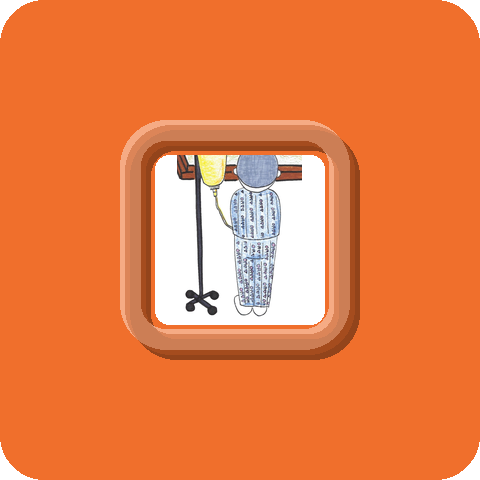
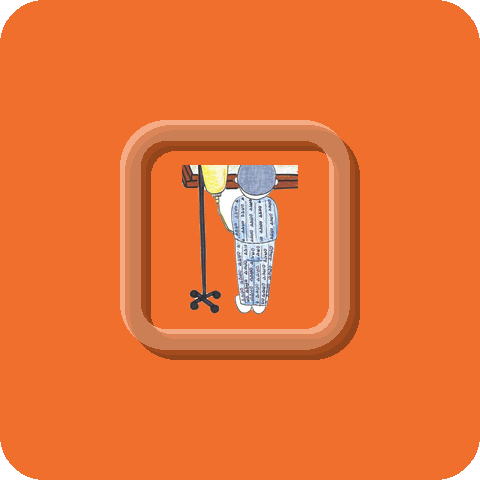
사계절 카드: 액자 안 흰 배경 제거
앞선 커밋은 그림을 흰 배경째 액자에 넣어 안쪽에 흰 판이 생겼다.
이제 흰 배경만 지우고 캐릭터가 계절색 위에 바로 놓이게 했다.

흰 배경 제거의 관건은 캐릭터 '안쪽'의 흰 부분(서퍼의 셔츠, 물보라,
이불)을 살리는 것이다. 밝기 문턱값으로 자르면 그것까지 뚫려 카드
색이 비친다. 그래서
- 바깥 테두리에서 연결된 흰 영역만 플러드 필로 지우고
- 문턱값을 246으로 높여 정말 흰 픽셀만 배경으로 보고
- 크레용 획 사이로 종이가 비쳐 생긴 구멍은 모폴로지 클로징으로 메웠다
겨울은 이불의 틈이 넓어 문턱값 248 · 클로징 13으로 따로 잡았다.

검증: 375px·1280px 모두 4장 로드, 이름/문구가 액자 구간(26~74%)을
침범하지 않음, 가로 스크롤 없음.

Changed region(s): [[0.3125, 0.3125, 0.6875, 0.6875]]

diff --git a/letter-2026-summer.html b/letter-2026-summer.html
@@ -7,7 +7,7 @@
   <meta name="description" content="여름은 다들 떠나는 계절입니다. 그 여름에 병실에 있는 사람에게 보내는 편지. 페루 마추픽추, 산정특례 30일 규칙과 연말정산 장애인 공제, 그리고 2025년에 한 일." />
   <link rel="alternate" hreflang="ko" href="https://nrhoon777.github.io/ddobom-website/letter-2026-summer.html" />
   <link rel="icon" type="image/png" href="assets/img/logo-square.png" />
-  <link rel="stylesheet" href="assets/css/style.css?v=20260811d" />
+  <link rel="stylesheet" href="assets/css/style.css?v=20260811e" />
 </head>
 <body>
   <a href="#main" class="skip-link">본문 바로가기</a>
@@ -339,6 +339,6 @@
     </div>
   </footer>
 
-  <script src="assets/js/main.js?v=20260811d"></script>
+  <script src="assets/js/main.js?v=20260811e"></script>
 </body>
 </html>

diff --git a/letters.html b/letters.html
@@ -7,7 +7,7 @@
   <meta name="description" content="계절마다 한 번, 네 번에 걸쳐 한 해를 도는 또봄의 편지. 여름·가을·겨울·봄, 또봄 로고의 네 네모와 같은 순서입니다." />
   <link rel="alternate" hreflang="ko" href="https://nrhoon777.github.io/ddobom-website/letters.html" />
   <link rel="icon" type="image/png" href="assets/img/logo-square.png" />
-  <link rel="stylesheet" href="assets/css/style.css?v=20260811d" />
+  <link rel="stylesheet" href="assets/css/style.css?v=20260811e" />
 </head>
 <body>
   <a href="#main" class="skip-link">본문 바로가기</a>
@@ -164,6 +164,6 @@
     </div>
   </footer>
 
-  <script src="assets/js/main.js?v=20260811d"></script>
+  <script src="assets/js/main.js?v=20260811e"></script>
 </body>
 </html>

diff --git a/travel-peru.html b/travel-peru.html
@@ -7,7 +7,7 @@
   <meta name="description" content="이카, 나스카, 마추픽추, 쿠스코, 우유니, 69호수. 회복기의 몸을 기준으로 고도순으로 정리한 페루 여행 안내입니다." />
   <link rel="alternate" hreflang="ko" href="https://nrhoon777.github.io/ddobom-website/travel-peru.html" />
   <link rel="icon" type="image/png" href="assets/img/logo-square.png" />
-  <link rel="stylesheet" href="assets/css/style.css?v=20260811d" />
+  <link rel="stylesheet" href="assets/css/style.css?v=20260811e" />
 </head>
 <body>
   <a href="#main" class="skip-link">본문 바로가기</a>
@@ -216,6 +216,6 @@
     </div>
   </footer>
 
-  <script src="assets/js/main.js?v=20260811d"></script>
+  <script src="assets/js/main.js?v=20260811e"></script>
 </body>
 </html>

diff --git a/story-bucketbook.html b/story-bucketbook.html
@@ -7,7 +7,7 @@
   <meta name="description" content="말기암을 이겨낸 뒤 떠난 80일간의 여행. 그 사진으로 만든 포토북을 병원에 전한 2018년 프로젝트 기록입니다." />
   <link rel="alternate" hreflang="ko" href="https://nrhoon777.github.io/ddobom-website/story-bucketbook.html" />
   <link rel="icon" type="image/png" href="assets/img/logo-square.png" />
-  <link rel="stylesheet" href="assets/css/style.css?v=20260811d" />
+  <link rel="stylesheet" href="assets/css/style.css?v=20260811e" />
 </head>
 <body>
   <a href="#main" class="skip-link">본문 바로가기</a>
@@ -238,6 +238,6 @@
     </div>
   </footer>
 
-  <script src="assets/js/main.js?v=20260811d"></script>
+  <script src="assets/js/main.js?v=20260811e"></script>
 </body>
 </html>

diff --git a/index.html b/index.html
@@ -12,7 +12,7 @@
   <link rel="alternate" hreflang="en" href="https://nrhoon777.github.io/ddobom-website/en/index.html" />
   <link rel="alternate" hreflang="x-default" href="https://nrhoon777.github.io/ddobom-website/index.html" />
   <link rel="icon" type="image/png" href="assets/img/logo-square.png" />
-  <link rel="stylesheet" href="assets/css/style.css?v=20260811d" />
+  <link rel="stylesheet" href="assets/css/style.css?v=20260811e" />
 </head>
 <body>
   <a href="#main" class="skip-link">본문 바로가기</a>
@@ -448,7 +448,7 @@
     </div>
   </footer>
 
-  <script src="assets/js/main.js?v=20260811d"></script>
+  <script src="assets/js/main.js?v=20260811e"></script>
   <script type="module" src="assets/js/news-loader.js?v=20260807f"></script>
 </body>
 </html>

diff --git a/story-cheerup.html b/story-cheerup.html
@@ -7,7 +7,7 @@
   <meta name="description" content="암 경험자와 시민이 한자리에서 이야기하고 노래하는 토크·싱 콘서트. 2023년부터 네 번 열린 기록입니다." />
   <link rel="alternate" hreflang="ko" href="https://nrhoon777.github.io/ddobom-website/story-cheerup.html" />
   <link rel="icon" type="image/png" href="assets/img/logo-square.png" />
-  <link rel="stylesheet" href="assets/css/style.css?v=20260811d" />
+  <link rel="stylesheet" href="assets/css/style.css?v=20260811e" />
 </head>
 <body>
   <a href="#main" class="skip-link">본문 바로가기</a>
@@ -167,6 +167,6 @@
     </div>
   </footer>
 
-  <script src="assets/js/main.js?v=20260811d"></script>
+  <script src="assets/js/main.js?v=20260811e"></script>
 </body>
 </html>

diff --git a/story-gift-2020.html b/story-gift-2020.html
@@ -7,7 +7,7 @@
   <meta name="description" content="코로나로 만남이 어려웠던 2020년 겨울, 투병 중인 청년에게 여행 포토북을 보낸 캠페인 기록입니다." />
   <link rel="alternate" hreflang="ko" href="https://nrhoon777.github.io/ddobom-website/story-gift-2020.html" />
   <link rel="icon" type="image/png" href="assets/img/logo-square.png" />
-  <link rel="stylesheet" href="assets/css/style.css?v=20260811d" />
+  <link rel="stylesheet" href="assets/css/style.css?v=20260811e" />
 </head>
 <body>
   <a href="#main" class="skip-link">본문 바로가기</a>
@@ -133,6 +133,6 @@
     </div>
   </footer>
 
-  <script src="assets/js/main.js?v=20260811d"></script>
+  <script src="assets/js/main.js?v=20260811e"></script>
 </body>
 </html>

diff --git a/en/story-bucketbook.html b/en/story-bucketbook.html
@@ -8,7 +8,7 @@
   <link rel="alternate" hreflang="ko" href="https://nrhoon777.github.io/ddobom-website/story-bucketbook.html" />
   <link rel="alternate" hreflang="en" href="https://nrhoon777.github.io/ddobom-website/en/story-bucketbook.html" />
   <link rel="icon" type="image/png" href="../assets/img/logo-square.png" />
-  <link rel="stylesheet" href="../assets/css/style.css?v=20260811d" />
+  <link rel="stylesheet" href="../assets/css/style.css?v=20260811e" />
 </head>
 <body>
   <a href="#main" class="skip-link">Skip to content</a>
@@ -273,6 +273,6 @@
     </div>
   </footer>
 
-  <script src="../assets/js/main.js?v=20260811d"></script>
+  <script src="../assets/js/main.js?v=20260811e"></script>
 </body>
 </html>

diff --git a/en/story-gift-2020.html b/en/story-gift-2020.html
@@ -8,7 +8,7 @@
   <link rel="alternate" hreflang="ko" href="https://nrhoon777.github.io/ddobom-website/story-gift-2020.html" />
   <link rel="alternate" hreflang="en" href="https://nrhoon777.github.io/ddobom-website/en/story-gift-2020.html" />
   <link rel="icon" type="image/png" href="../assets/img/logo-square.png" />
-  <link rel="stylesheet" href="../assets/css/style.css?v=20260811d" />
+  <link rel="stylesheet" href="../assets/css/style.css?v=20260811e" />
 </head>
 <body>
   <a href="#main" class="skip-link">Skip to content</a>
@@ -174,6 +174,6 @@
     </div>
   </footer>
 
-  <script src="../assets/js/main.js?v=20260811d"></script>
+  <script src="../assets/js/main.js?v=20260811e"></script>
 </body>
 </html>

diff --git a/en/story-cheerup.html b/en/story-cheerup.html
@@ -8,7 +8,7 @@
   <link rel="alternate" hreflang="ko" href="https://nrhoon777.github.io/ddobom-website/story-cheerup.html" />
   <link rel="alternate" hreflang="en" href="https://nrhoon777.github.io/ddobom-website/en/story-cheerup.html" />
   <link rel="icon" type="image/png" href="../assets/img/logo-square.png" />
-  <link rel="stylesheet" href="../assets/css/style.css?v=20260811d" />
+  <link rel="stylesheet" href="../assets/css/style.css?v=20260811e" />
 </head>
 <body>
   <a href="#main" class="skip-link">Skip to content</a>
@@ -205,6 +205,6 @@
     </div>
   </footer>
 
-  <script src="../assets/js/main.js?v=20260811d"></script>
+  <script src="../assets/js/main.js?v=20260811e"></script>
 </body>
 </html>

diff --git a/en/programs.html b/en/programs.html
@@ -9,7 +9,7 @@
   <link rel="alternate" hreflang="en" href="https://nrhoon777.github.io/ddobom-website/en/programs.html" />
   <link rel="alternate" hreflang="x-default" href="https://nrhoon777.github.io/ddobom-website/programs.html" />
   <link rel="icon" type="image/png" href="../assets/img/logo-square.png" />
-  <link rel="stylesheet" href="../assets/css/style.css?v=20260811d" />
+  <link rel="stylesheet" href="../assets/css/style.css?v=20260811e" />
 </head>
 <body>
   <a href="#main" class="skip-link">Skip to content</a>
@@ -309,6 +309,6 @@
     </div>
   </footer>
 
-  <script src="../assets/js/main.js?v=20260811d"></script>
+  <script src="../assets/js/main.js?v=20260811e"></script>
 </body>
 </html>

diff --git a/en/donate.html b/en/donate.html
@@ -9,7 +9,7 @@
   <link rel="alternate" hreflang="en" href="https://nrhoon777.github.io/ddobom-website/en/donate.html" />
   <link rel="alternate" hreflang="x-default" href="https://nrhoon777.github.io/ddobom-website/donate.html" />
   <link rel="icon" type="image/png" href="../assets/img/logo-square.png" />
-  <link rel="stylesheet" href="../assets/css/style.css?v=20260811d" />
+  <link rel="stylesheet" href="../assets/css/style.css?v=20260811e" />
 </head>
 <body>
   <a href="#main" class="skip-link">Skip to content</a>
@@ -213,6 +213,6 @@
     </div>
   </footer>
 
-  <script src="../assets/js/main.js?v=20260811d"></script>
+  <script src="../assets/js/main.js?v=20260811e"></script>
 </body>
 </html>
